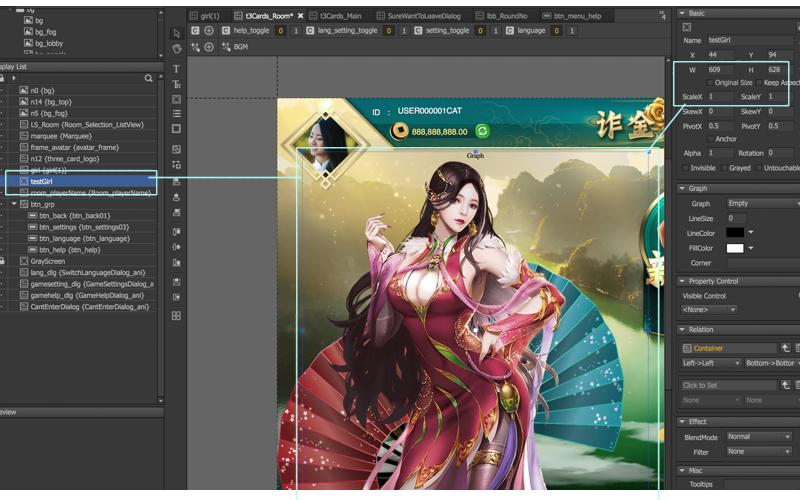
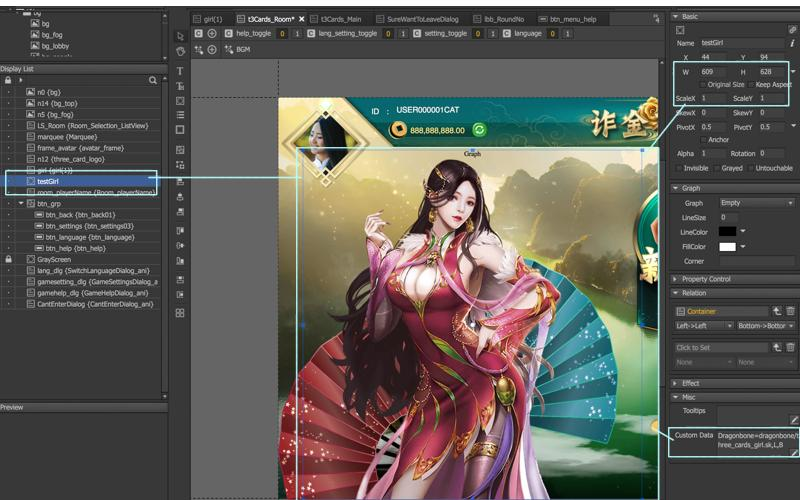
Updates dragonbone.md
Auto commit by GitBook Editor

Changed region(s): [[0.0, 0.0, 1.0, 1.0]]

diff --git a/dragonbone.md b/dragonbone.md
@@ -12,8 +12,8 @@
 
 |  |  |
 | :--- | :--- |
-| ![](/assets/dbone01_1.jpg) |  |
-| ![](/assets/dbone01_2.jpg) |  |
+| ![](/assets/dbone01_1.jpg) | 若拉圖片做reference, 請記得勾選invisible；以及，設定的size大小要記得 |
+| ![](/assets/dbone01_2.jpg) | 在換算過size大小後，以一空container 去盛取以供後續裝載Dragon Bone之用。並將代碼置於自定義數據 |
 
 
 
